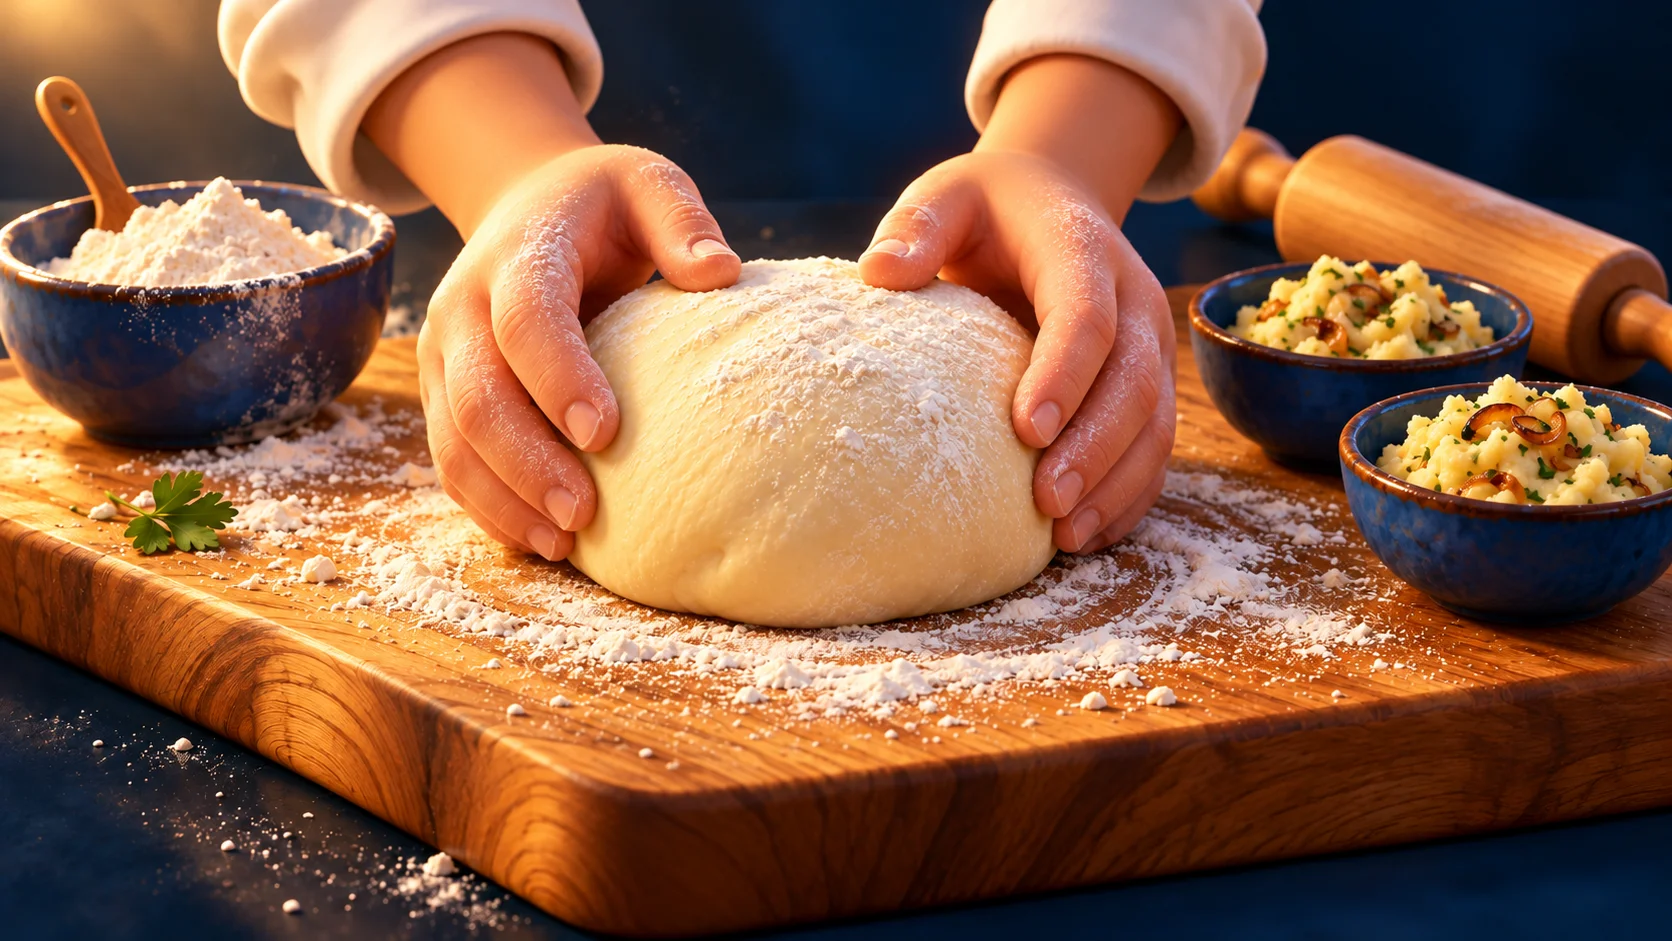
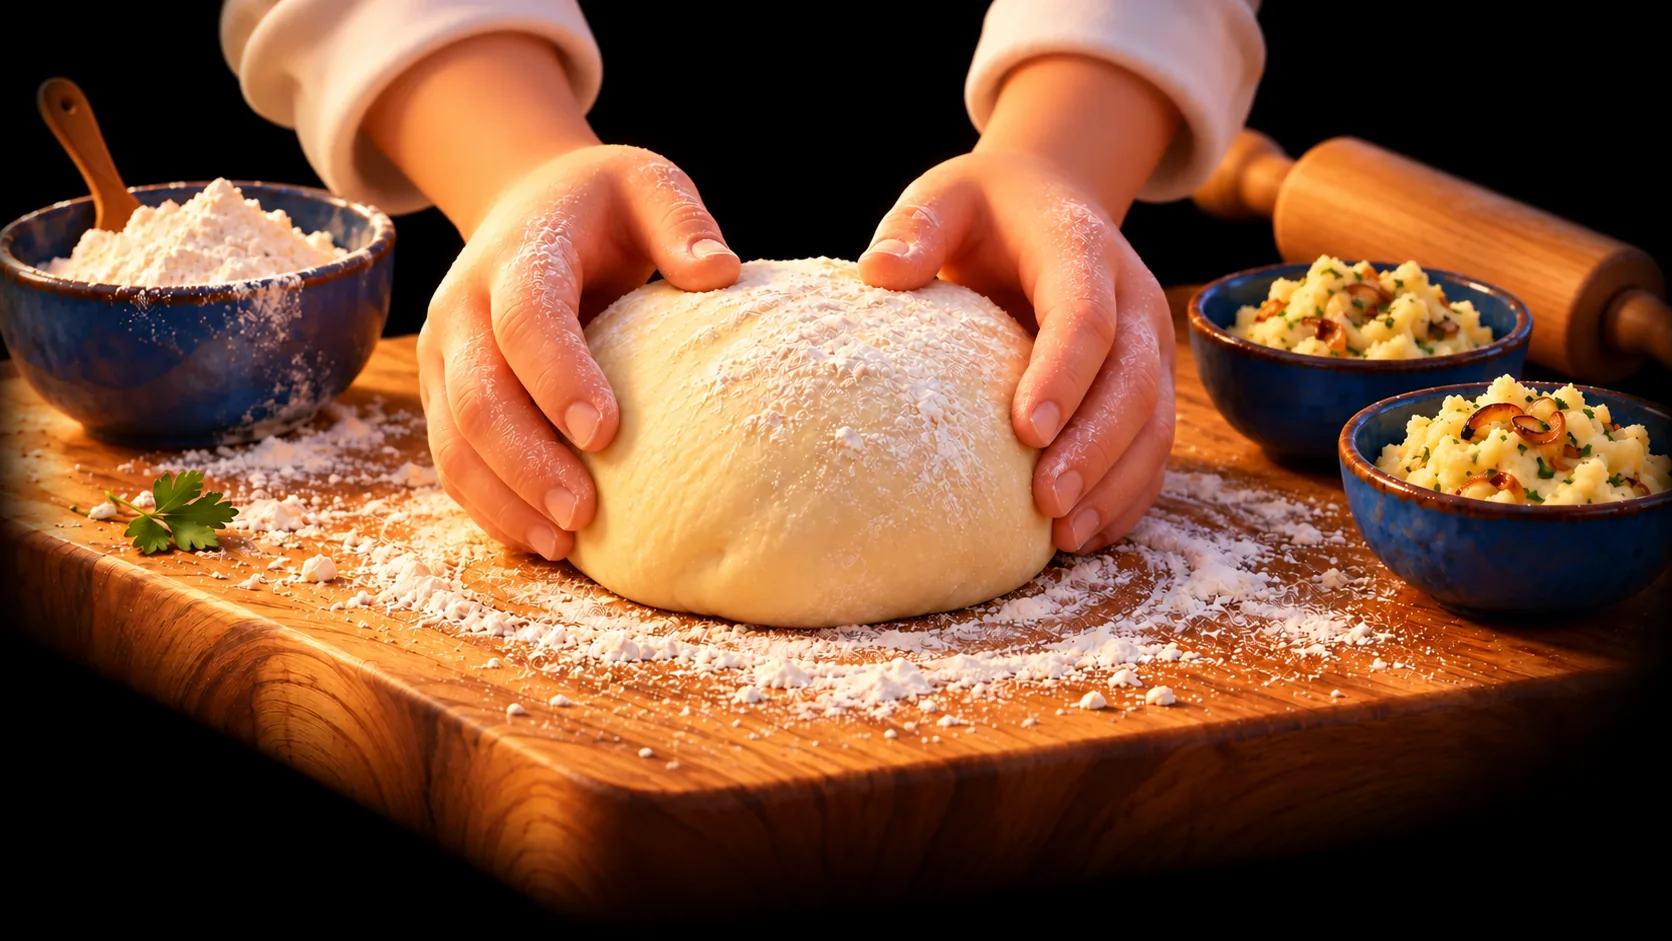
Blend the kitchen illustration and footer into pure black

diff --git a/footer-film.css b/footer-film.css
@@ -1,9 +1,9 @@
-/* Rendered kitchen keyframe, integrated into the existing navy footer. */
-.footer-kitchen-art{position:relative;overflow:hidden;background:#062b3c;color:#f7f1e7;padding:0 var(--gutter)}
+/* The kitchen image and adjacent footer share one black background. */
+.footer-kitchen-art{position:relative;overflow:hidden;background:#000;color:#f7f1e7;padding:0 var(--gutter)}
 .footer-kitchen-figure{position:relative;max-width:1100px;margin:0 auto;isolation:isolate}
-.footer-kitchen-figure:after{content:"";position:absolute;inset:0;pointer-events:none;background:linear-gradient(90deg,#062b3c,transparent 9%,transparent 91%,#062b3c),linear-gradient(0deg,#062b3c,transparent 20%,transparent 90%,#062b3c)}
+.footer-kitchen-figure:after{content:"";position:absolute;inset:0;pointer-events:none;background:linear-gradient(90deg,#000,transparent 9%,transparent 91%,#000),linear-gradient(0deg,#000,transparent 20%,transparent 90%,#000)}
 .footer-kitchen-figure img{display:block;width:100%;height:auto;aspect-ratio:1672/941;object-fit:contain}
 .footer-kitchen-figure figcaption{position:absolute;z-index:1;bottom:14px;left:4%;right:4%;display:flex;align-items:center;justify-content:space-between;gap:20px;font-size:12px;line-height:1.5;letter-spacing:.03em}
 .footer-kitchen-figure small{font-size:10px;color:#c0d0d5}
-.footer-kitchen-art+.footer{border-top:0;padding-top:34px}
-@media(max-width:760px){.footer-kitchen-art{padding:0}.footer-kitchen-figure img{aspect-ratio:1.46;object-fit:cover;object-position:50% 50%}.footer-kitchen-figure:after{background:linear-gradient(0deg,#062b3c,transparent 28%,transparent 90%,#062b3c)}.footer-kitchen-figure figcaption{left:var(--gutter);right:var(--gutter);bottom:10px;font-size:11px}.footer-kitchen-figure small{font-size:9px}.footer-kitchen-art+.footer{padding-top:28px}}
+.footer-kitchen-art+.footer{background:#000;border-top:0;padding-top:34px}
+@media(max-width:760px){.footer-kitchen-art{padding:0}.footer-kitchen-figure img{aspect-ratio:1.46;object-fit:cover;object-position:50% 50%}.footer-kitchen-figure:after{background:linear-gradient(0deg,#000,transparent 28%,transparent 90%,#000)}.footer-kitchen-figure figcaption{left:var(--gutter);right:var(--gutter);bottom:10px;font-size:11px}.footer-kitchen-figure small{font-size:9px}.footer-kitchen-art+.footer{padding-top:28px}}

diff --git a/sklep.html b/sklep.html
@@ -1,5 +1,5 @@
 <!doctype html>
-<html lang="pl"><head><meta charset="utf-8"><meta name="viewport" content="width=device-width,initial-scale=1"><meta name="theme-color" content="#f6f0e4"><link rel="icon" type="image/svg+xml" href="assets/logo-ciemne2.svg"><script>try{document.documentElement.dataset.theme=localStorage.getItem('dziki-harsz-theme')==='dark'?'dark':'light'}catch(e){}</script><link rel="stylesheet" href="styles.css"><link rel="stylesheet" href="refinements.css"><link rel="stylesheet" href="marine.css"><link rel="stylesheet" href="shop-refresh.css"><script type="module" src="app.js"></script><link rel="stylesheet" href="dumpling-fix.css"><link rel="stylesheet" href="footer-film.css"><link rel="stylesheet" href="logo-motion.css"><link rel="stylesheet" href="footer-contact.css"><link rel="stylesheet" href="availability.css">
+<html lang="pl"><head><meta charset="utf-8"><meta name="viewport" content="width=device-width,initial-scale=1"><meta name="theme-color" content="#f6f0e4"><link rel="icon" type="image/svg+xml" href="assets/logo-ciemne2.svg"><script>try{document.documentElement.dataset.theme=localStorage.getItem('dziki-harsz-theme')==='dark'?'dark':'light'}catch(e){}</script><link rel="stylesheet" href="styles.css"><link rel="stylesheet" href="refinements.css"><link rel="stylesheet" href="marine.css"><link rel="stylesheet" href="shop-refresh.css"><script type="module" src="app.js?v=20261023-black-footer"></script><link rel="stylesheet" href="dumpling-fix.css"><link rel="stylesheet" href="footer-film.css?v=20261023-black-footer"><link rel="stylesheet" href="logo-motion.css"><link rel="stylesheet" href="footer-contact.css"><link rel="stylesheet" href="availability.css">
 <link rel="stylesheet" href="cuisine-type.css?v=20261023-black-type">
 
 <!-- seo:start -->

diff --git a/cookies.html b/cookies.html
@@ -1,5 +1,5 @@
 <!doctype html>
-<html lang="pl"><head><meta charset="utf-8"><meta name="viewport" content="width=device-width,initial-scale=1"><meta name="theme-color" content="#f6f0e4"><link rel="icon" type="image/svg+xml" href="assets/logo-ciemne2.svg"><script>try{document.documentElement.dataset.theme=localStorage.getItem('dziki-harsz-theme')==='dark'?'dark':'light'}catch(e){}</script><link rel="stylesheet" href="styles.css"><link rel="stylesheet" href="refinements.css"><script type="module" src="app.js"></script><link rel="stylesheet" href="marine.css"><link rel="stylesheet" href="dumpling-fix.css"><link rel="stylesheet" href="footer-film.css"><link rel="stylesheet" href="logo-motion.css"><link rel="stylesheet" href="footer-contact.css"><link rel="stylesheet" href="availability.css">
+<html lang="pl"><head><meta charset="utf-8"><meta name="viewport" content="width=device-width,initial-scale=1"><meta name="theme-color" content="#f6f0e4"><link rel="icon" type="image/svg+xml" href="assets/logo-ciemne2.svg"><script>try{document.documentElement.dataset.theme=localStorage.getItem('dziki-harsz-theme')==='dark'?'dark':'light'}catch(e){}</script><link rel="stylesheet" href="styles.css"><link rel="stylesheet" href="refinements.css"><script type="module" src="app.js?v=20261023-black-footer"></script><link rel="stylesheet" href="marine.css"><link rel="stylesheet" href="dumpling-fix.css"><link rel="stylesheet" href="footer-film.css?v=20261023-black-footer"><link rel="stylesheet" href="logo-motion.css"><link rel="stylesheet" href="footer-contact.css"><link rel="stylesheet" href="availability.css">
 <link rel="stylesheet" href="cuisine-type.css?v=20261023-black-type">
 
 <!-- seo:start -->

diff --git a/kaczka-harszowa-20.html b/kaczka-harszowa-20.html
@@ -1,5 +1,5 @@
 <!doctype html>
-<html lang="pl"><head><meta charset="utf-8"><meta name="viewport" content="width=device-width,initial-scale=1"><meta name="theme-color" content="#f6f0e4"><link rel="icon" type="image/svg+xml" href="assets/logo-ciemne2.svg"><script>try{document.documentElement.dataset.theme=localStorage.getItem('dziki-harsz-theme')==='dark'?'dark':'light'}catch(e){}</script><link rel="stylesheet" href="styles.css"><link rel="stylesheet" href="refinements.css"><script type="module" src="app.js"></script><link rel="stylesheet" href="marine.css"><link rel="stylesheet" href="dumpling-fix.css"><link rel="stylesheet" href="footer-film.css"><link rel="stylesheet" href="logo-motion.css"><link rel="stylesheet" href="footer-contact.css"><link rel="stylesheet" href="availability.css">
+<html lang="pl"><head><meta charset="utf-8"><meta name="viewport" content="width=device-width,initial-scale=1"><meta name="theme-color" content="#f6f0e4"><link rel="icon" type="image/svg+xml" href="assets/logo-ciemne2.svg"><script>try{document.documentElement.dataset.theme=localStorage.getItem('dziki-harsz-theme')==='dark'?'dark':'light'}catch(e){}</script><link rel="stylesheet" href="styles.css"><link rel="stylesheet" href="refinements.css"><script type="module" src="app.js?v=20261023-black-footer"></script><link rel="stylesheet" href="marine.css"><link rel="stylesheet" href="dumpling-fix.css"><link rel="stylesheet" href="footer-film.css?v=20261023-black-footer"><link rel="stylesheet" href="logo-motion.css"><link rel="stylesheet" href="footer-contact.css"><link rel="stylesheet" href="availability.css">
 <link rel="stylesheet" href="cuisine-type.css?v=20261023-black-type">
 
 <!-- seo:start -->

diff --git a/kontakt.html b/kontakt.html
@@ -1,5 +1,5 @@
 <!doctype html>
-<html lang="pl"><head><meta charset="utf-8"><meta name="viewport" content="width=device-width,initial-scale=1"><meta name="theme-color" content="#f6f0e4"><link rel="icon" type="image/svg+xml" href="assets/logo-ciemne2.svg"><script>try{document.documentElement.dataset.theme=localStorage.getItem('dziki-harsz-theme')==='dark'?'dark':'light'}catch(e){}</script><link rel="stylesheet" href="styles.css"><link rel="stylesheet" href="refinements.css"><script type="module" src="app.js"></script><link rel="stylesheet" href="marine.css"><link rel="stylesheet" href="dumpling-fix.css"><link rel="stylesheet" href="footer-film.css"><link rel="stylesheet" href="logo-motion.css"><link rel="stylesheet" href="footer-contact.css"><link rel="stylesheet" href="availability.css">
+<html lang="pl"><head><meta charset="utf-8"><meta name="viewport" content="width=device-width,initial-scale=1"><meta name="theme-color" content="#f6f0e4"><link rel="icon" type="image/svg+xml" href="assets/logo-ciemne2.svg"><script>try{document.documentElement.dataset.theme=localStorage.getItem('dziki-harsz-theme')==='dark'?'dark':'light'}catch(e){}</script><link rel="stylesheet" href="styles.css"><link rel="stylesheet" href="refinements.css"><script type="module" src="app.js?v=20261023-black-footer"></script><link rel="stylesheet" href="marine.css"><link rel="stylesheet" href="dumpling-fix.css"><link rel="stylesheet" href="footer-film.css?v=20261023-black-footer"><link rel="stylesheet" href="logo-motion.css"><link rel="stylesheet" href="footer-contact.css"><link rel="stylesheet" href="availability.css">
 <link rel="stylesheet" href="cuisine-type.css?v=20261023-black-type">
 
 <!-- seo:start -->

diff --git a/o-nas.html b/o-nas.html
@@ -1,5 +1,5 @@
 <!doctype html>
-<html lang="pl"><head><meta charset="utf-8"><meta name="viewport" content="width=device-width,initial-scale=1"><meta name="theme-color" content="#f6f0e4"><link rel="icon" type="image/svg+xml" href="assets/logo-ciemne2.svg"><script>try{document.documentElement.dataset.theme=localStorage.getItem('dziki-harsz-theme')==='dark'?'dark':'light'}catch(e){}</script><link rel="stylesheet" href="styles.css"><link rel="stylesheet" href="refinements.css"><script type="module" src="app.js"></script><link rel="stylesheet" href="marine.css"><link rel="stylesheet" href="dumpling-fix.css"><link rel="stylesheet" href="footer-film.css"><link rel="stylesheet" href="logo-motion.css"><link rel="stylesheet" href="footer-contact.css"><link rel="stylesheet" href="availability.css">
+<html lang="pl"><head><meta charset="utf-8"><meta name="viewport" content="width=device-width,initial-scale=1"><meta name="theme-color" content="#f6f0e4"><link rel="icon" type="image/svg+xml" href="assets/logo-ciemne2.svg"><script>try{document.documentElement.dataset.theme=localStorage.getItem('dziki-harsz-theme')==='dark'?'dark':'light'}catch(e){}</script><link rel="stylesheet" href="styles.css"><link rel="stylesheet" href="refinements.css"><script type="module" src="app.js?v=20261023-black-footer"></script><link rel="stylesheet" href="marine.css"><link rel="stylesheet" href="dumpling-fix.css"><link rel="stylesheet" href="footer-film.css?v=20261023-black-footer"><link rel="stylesheet" href="logo-motion.css"><link rel="stylesheet" href="footer-contact.css"><link rel="stylesheet" href="availability.css">
 <link rel="stylesheet" href="cuisine-type.css?v=20261023-black-type">
 
 <!-- seo:start -->

diff --git a/pasztet-15.html b/pasztet-15.html
@@ -1,5 +1,5 @@
 <!doctype html>
-<html lang="pl"><head><meta charset="utf-8"><meta name="viewport" content="width=device-width,initial-scale=1"><meta name="theme-color" content="#f6f0e4"><link rel="icon" type="image/svg+xml" href="assets/logo-ciemne2.svg"><script>try{document.documentElement.dataset.theme=localStorage.getItem('dziki-harsz-theme')==='dark'?'dark':'light'}catch(e){}</script><link rel="stylesheet" href="styles.css"><link rel="stylesheet" href="refinements.css"><script type="module" src="app.js"></script><link rel="stylesheet" href="marine.css"><link rel="stylesheet" href="dumpling-fix.css"><link rel="stylesheet" href="footer-film.css"><link rel="stylesheet" href="logo-motion.css"><link rel="stylesheet" href="footer-contact.css"><link rel="stylesheet" href="availability.css">
+<html lang="pl"><head><meta charset="utf-8"><meta name="viewport" content="width=device-width,initial-scale=1"><meta name="theme-color" content="#f6f0e4"><link rel="icon" type="image/svg+xml" href="assets/logo-ciemne2.svg"><script>try{document.documentElement.dataset.theme=localStorage.getItem('dziki-harsz-theme')==='dark'?'dark':'light'}catch(e){}</script><link rel="stylesheet" href="styles.css"><link rel="stylesheet" href="refinements.css"><script type="module" src="app.js?v=20261023-black-footer"></script><link rel="stylesheet" href="marine.css"><link rel="stylesheet" href="dumpling-fix.css"><link rel="stylesheet" href="footer-film.css?v=20261023-black-footer"><link rel="stylesheet" href="logo-motion.css"><link rel="stylesheet" href="footer-contact.css"><link rel="stylesheet" href="availability.css">
 <link rel="stylesheet" href="cuisine-type.css?v=20261023-black-type">
 
 <!-- seo:start -->

diff --git a/pierogi-ruskie-12.html b/pierogi-ruskie-12.html
@@ -1,5 +1,5 @@
 <!doctype html>
-<html lang="pl"><head><meta charset="utf-8"><meta name="viewport" content="width=device-width,initial-scale=1"><meta name="theme-color" content="#f6f0e4"><link rel="icon" type="image/svg+xml" href="assets/logo-ciemne2.svg"><script>try{document.documentElement.dataset.theme=localStorage.getItem('dziki-harsz-theme')==='dark'?'dark':'light'}catch(e){}</script><link rel="stylesheet" href="styles.css"><link rel="stylesheet" href="refinements.css"><script type="module" src="app.js"></script><link rel="stylesheet" href="marine.css"><link rel="stylesheet" href="dumpling-fix.css"><link rel="stylesheet" href="footer-film.css"><link rel="stylesheet" href="logo-motion.css"><link rel="stylesheet" href="footer-contact.css"><link rel="stylesheet" href="availability.css">
+<html lang="pl"><head><meta charset="utf-8"><meta name="viewport" content="width=device-width,initial-scale=1"><meta name="theme-color" content="#f6f0e4"><link rel="icon" type="image/svg+xml" href="assets/logo-ciemne2.svg"><script>try{document.documentElement.dataset.theme=localStorage.getItem('dziki-harsz-theme')==='dark'?'dark':'light'}catch(e){}</script><link rel="stylesheet" href="styles.css"><link rel="stylesheet" href="refinements.css"><script type="module" src="app.js?v=20261023-black-footer"></script><link rel="stylesheet" href="marine.css"><link rel="stylesheet" href="dumpling-fix.css"><link rel="stylesheet" href="footer-film.css?v=20261023-black-footer"><link rel="stylesheet" href="logo-motion.css"><link rel="stylesheet" href="footer-contact.css"><link rel="stylesheet" href="availability.css">
 <link rel="stylesheet" href="cuisine-type.css?v=20261023-black-type">
 
 <!-- seo:start -->

diff --git a/pierogi-z-kaczka-17.html b/pierogi-z-kaczka-17.html
@@ -1,5 +1,5 @@
 <!doctype html>
-<html lang="pl"><head><meta charset="utf-8"><meta name="viewport" content="width=device-width,initial-scale=1"><meta name="theme-color" content="#f6f0e4"><link rel="icon" type="image/svg+xml" href="assets/logo-ciemne2.svg"><script>try{document.documentElement.dataset.theme=localStorage.getItem('dziki-harsz-theme')==='dark'?'dark':'light'}catch(e){}</script><link rel="stylesheet" href="styles.css"><link rel="stylesheet" href="refinements.css"><script type="module" src="app.js"></script><link rel="stylesheet" href="marine.css"><link rel="stylesheet" href="dumpling-fix.css"><link rel="stylesheet" href="footer-film.css"><link rel="stylesheet" href="logo-motion.css"><link rel="stylesheet" href="footer-contact.css"><link rel="stylesheet" href="availability.css">
+<html lang="pl"><head><meta charset="utf-8"><meta name="viewport" content="width=device-width,initial-scale=1"><meta name="theme-color" content="#f6f0e4"><link rel="icon" type="image/svg+xml" href="assets/logo-ciemne2.svg"><script>try{document.documentElement.dataset.theme=localStorage.getItem('dziki-harsz-theme')==='dark'?'dark':'light'}catch(e){}</script><link rel="stylesheet" href="styles.css"><link rel="stylesheet" href="refinements.css"><script type="module" src="app.js?v=20261023-black-footer"></script><link rel="stylesheet" href="marine.css"><link rel="stylesheet" href="dumpling-fix.css"><link rel="stylesheet" href="footer-film.css?v=20261023-black-footer"><link rel="stylesheet" href="logo-motion.css"><link rel="stylesheet" href="footer-contact.css"><link rel="stylesheet" href="availability.css">
 <link rel="stylesheet" href="cuisine-type.css?v=20261023-black-type">
 
 <!-- seo:start -->

diff --git a/pierogi-z-kapusta-i-grzybami-16.html b/pierogi-z-kapusta-i-grzybami-16.html
@@ -1,5 +1,5 @@
 <!doctype html>
-<html lang="pl"><head><meta charset="utf-8"><meta name="viewport" content="width=device-width,initial-scale=1"><meta name="theme-color" content="#f6f0e4"><link rel="icon" type="image/svg+xml" href="assets/logo-ciemne2.svg"><script>try{document.documentElement.dataset.theme=localStorage.getItem('dziki-harsz-theme')==='dark'?'dark':'light'}catch(e){}</script><link rel="stylesheet" href="styles.css"><link rel="stylesheet" href="refinements.css"><script type="module" src="app.js"></script><link rel="stylesheet" href="marine.css"><link rel="stylesheet" href="dumpling-fix.css"><link rel="stylesheet" href="footer-film.css"><link rel="stylesheet" href="logo-motion.css"><link rel="stylesheet" href="footer-contact.css"><link rel="stylesheet" href="availability.css">
+<html lang="pl"><head><meta charset="utf-8"><meta name="viewport" content="width=device-width,initial-scale=1"><meta name="theme-color" content="#f6f0e4"><link rel="icon" type="image/svg+xml" href="assets/logo-ciemne2.svg"><script>try{document.documentElement.dataset.theme=localStorage.getItem('dziki-harsz-theme')==='dark'?'dark':'light'}catch(e){}</script><link rel="stylesheet" href="styles.css"><link rel="stylesheet" href="refinements.css"><script type="module" src="app.js?v=20261023-black-footer"></script><link rel="stylesheet" href="marine.css"><link rel="stylesheet" href="dumpling-fix.css"><link rel="stylesheet" href="footer-film.css?v=20261023-black-footer"><link rel="stylesheet" href="logo-motion.css"><link rel="stylesheet" href="footer-contact.css"><link rel="stylesheet" href="availability.css">
 <link rel="stylesheet" href="cuisine-type.css?v=20261023-black-type">
 
 <!-- seo:start -->

diff --git a/pierogi-z-miesem-13.html b/pierogi-z-miesem-13.html
@@ -1,5 +1,5 @@
 <!doctype html>
-<html lang="pl"><head><meta charset="utf-8"><meta name="viewport" content="width=device-width,initial-scale=1"><meta name="theme-color" content="#f6f0e4"><link rel="icon" type="image/svg+xml" href="assets/logo-ciemne2.svg"><script>try{document.documentElement.dataset.theme=localStorage.getItem('dziki-harsz-theme')==='dark'?'dark':'light'}catch(e){}</script><link rel="stylesheet" href="styles.css"><link rel="stylesheet" href="refinements.css"><script type="module" src="app.js"></script><link rel="stylesheet" href="marine.css"><link rel="stylesheet" href="dumpling-fix.css"><link rel="stylesheet" href="footer-film.css"><link rel="stylesheet" href="logo-motion.css"><link rel="stylesheet" href="footer-contact.css"><link rel="stylesheet" href="availability.css">
+<html lang="pl"><head><meta charset="utf-8"><meta name="viewport" content="width=device-width,initial-scale=1"><meta name="theme-color" content="#f6f0e4"><link rel="icon" type="image/svg+xml" href="assets/logo-ciemne2.svg"><script>try{document.documentElement.dataset.theme=localStorage.getItem('dziki-harsz-theme')==='dark'?'dark':'light'}catch(e){}</script><link rel="stylesheet" href="styles.css"><link rel="stylesheet" href="refinements.css"><script type="module" src="app.js?v=20261023-black-footer"></script><link rel="stylesheet" href="marine.css"><link rel="stylesheet" href="dumpling-fix.css"><link rel="stylesheet" href="footer-film.css?v=20261023-black-footer"><link rel="stylesheet" href="logo-motion.css"><link rel="stylesheet" href="footer-contact.css"><link rel="stylesheet" href="availability.css">
 <link rel="stylesheet" href="cuisine-type.css?v=20261023-black-type">
 
 <!-- seo:start -->

diff --git a/pierogi-z-mietusem-8.html b/pierogi-z-mietusem-8.html
@@ -1,5 +1,5 @@
 <!doctype html>
-<html lang="pl"><head><meta charset="utf-8"><meta name="viewport" content="width=device-width,initial-scale=1"><meta name="theme-color" content="#f6f0e4"><link rel="icon" type="image/svg+xml" href="assets/logo-ciemne2.svg"><script>try{document.documentElement.dataset.theme=localStorage.getItem('dziki-harsz-theme')==='dark'?'dark':'light'}catch(e){}</script><link rel="stylesheet" href="styles.css"><link rel="stylesheet" href="refinements.css"><script type="module" src="app.js"></script><link rel="stylesheet" href="marine.css"><link rel="stylesheet" href="dumpling-fix.css"><link rel="stylesheet" href="footer-film.css"><link rel="stylesheet" href="logo-motion.css"><link rel="stylesheet" href="footer-contact.css"><link rel="stylesheet" href="availability.css">
+<html lang="pl"><head><meta charset="utf-8"><meta name="viewport" content="width=device-width,initial-scale=1"><meta name="theme-color" content="#f6f0e4"><link rel="icon" type="image/svg+xml" href="assets/logo-ciemne2.svg"><script>try{document.documentElement.dataset.theme=localStorage.getItem('dziki-harsz-theme')==='dark'?'dark':'light'}catch(e){}</script><link rel="stylesheet" href="styles.css"><link rel="stylesheet" href="refinements.css"><script type="module" src="app.js?v=20261023-black-footer"></script><link rel="stylesheet" href="marine.css"><link rel="stylesheet" href="dumpling-fix.css"><link rel="stylesheet" href="footer-film.css?v=20261023-black-footer"><link rel="stylesheet" href="logo-motion.css"><link rel="stylesheet" href="footer-contact.css"><link rel="stylesheet" href="availability.css">
 <link rel="stylesheet" href="cuisine-type.css?v=20261023-black-type">
 
 <!-- seo:start -->
